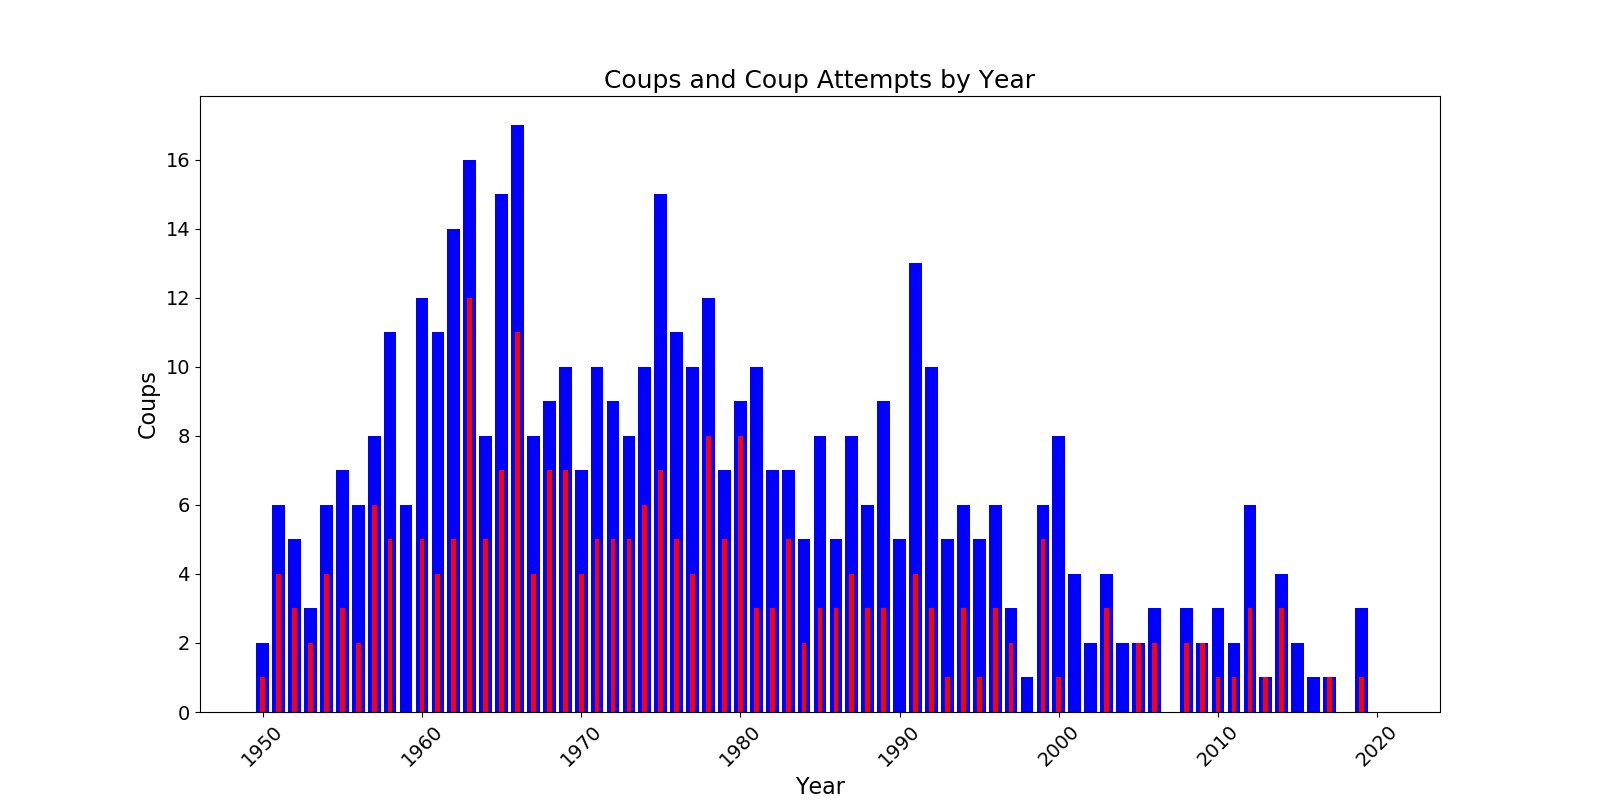
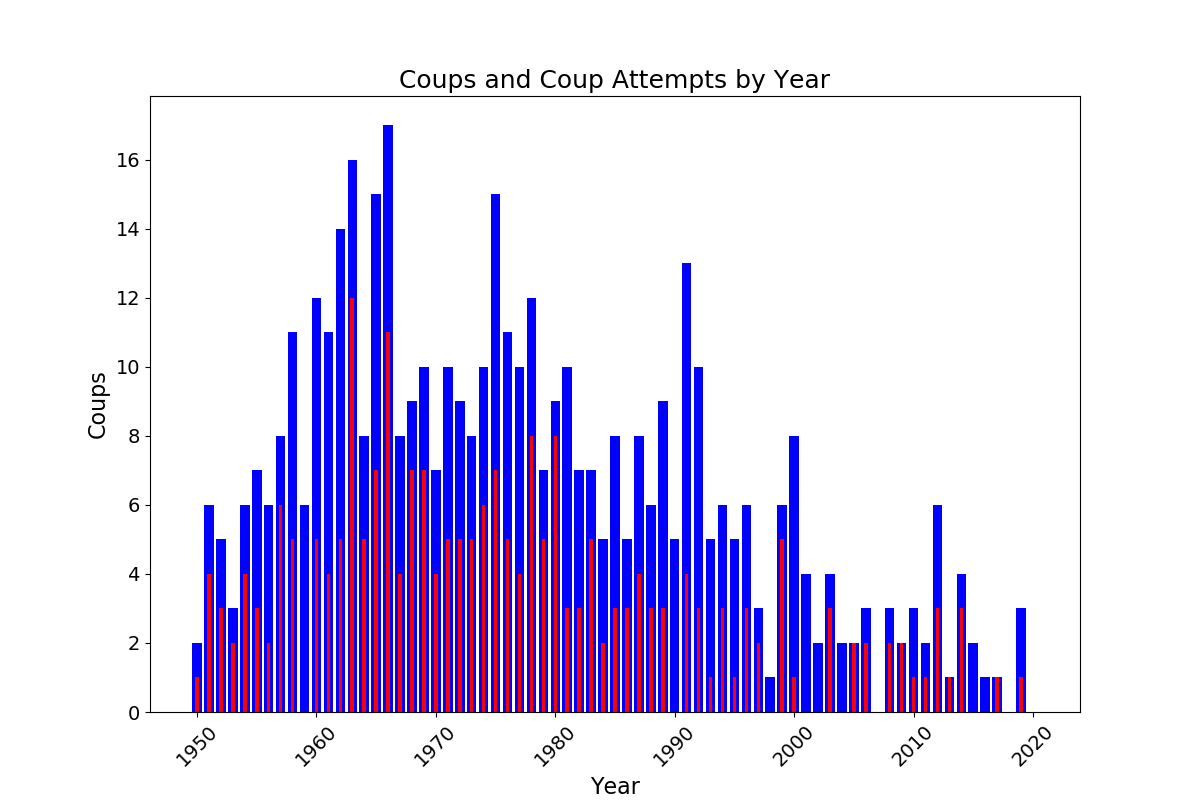
resized image

diff --git a/src/EDA.py b/src/EDA.py
@@ -20,7 +20,7 @@ if __name__ == '__main__':
     #aggregate coup attempts/successes by year
     yearly_df = reign_df.groupby('year').sum()
 
-    fig, ax = plt.subplots(figsize = (16, 8))
+    fig, ax = plt.subplots(figsize = (12, 8))
     ax.bar(yearly_df.index.values, yearly_df['pt_attempt'], color = 'blue')
     ax.bar(yearly_df.index.values, yearly_df['pt_suc'], color = 'red', width = .3)
     plt.xticks(rotation=45, fontsize = 14)
